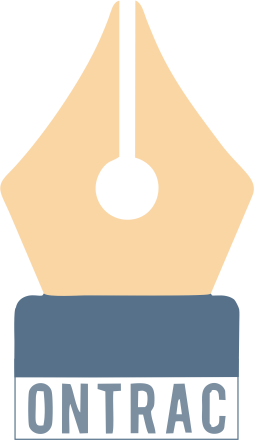
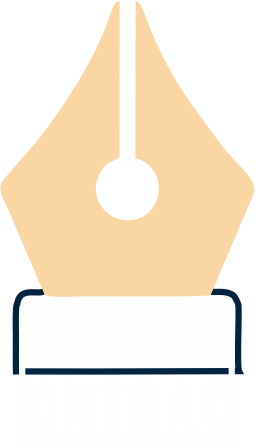
feat: add more content to docs
also modify the logo

diff --git a/src/components/Docs.jsx b/src/components/Docs.jsx
@@ -15,6 +15,13 @@ export default function Docs() {
 			<p className="mt-4 leading-tight">
 				This page provides a guide on how to use this web app
 			</p>
+			<h2 className="font-semibold my-4">Using OnTrac</h2>
+			<article>
+				<section>
+					<h4>Tasks</h4>
+					<p>tasks provide a way to itemize your daily todos.</p>
+				</section>
+			</article>
 		</main>
 	);
 }

diff --git a/src/hooks/db/useFetchDoc.jsx b/src/hooks/db/useFetchDoc.jsx
@@ -44,9 +44,9 @@ export default function useFetchDoc(firestoreCollection) {
 					setData(result);
 				});
 
+				// unsub();
 				setError(null);
 				setIsPending(false);
-				unsub();
 			} catch (err) {
 				console.error(err);
 				setError(err);
